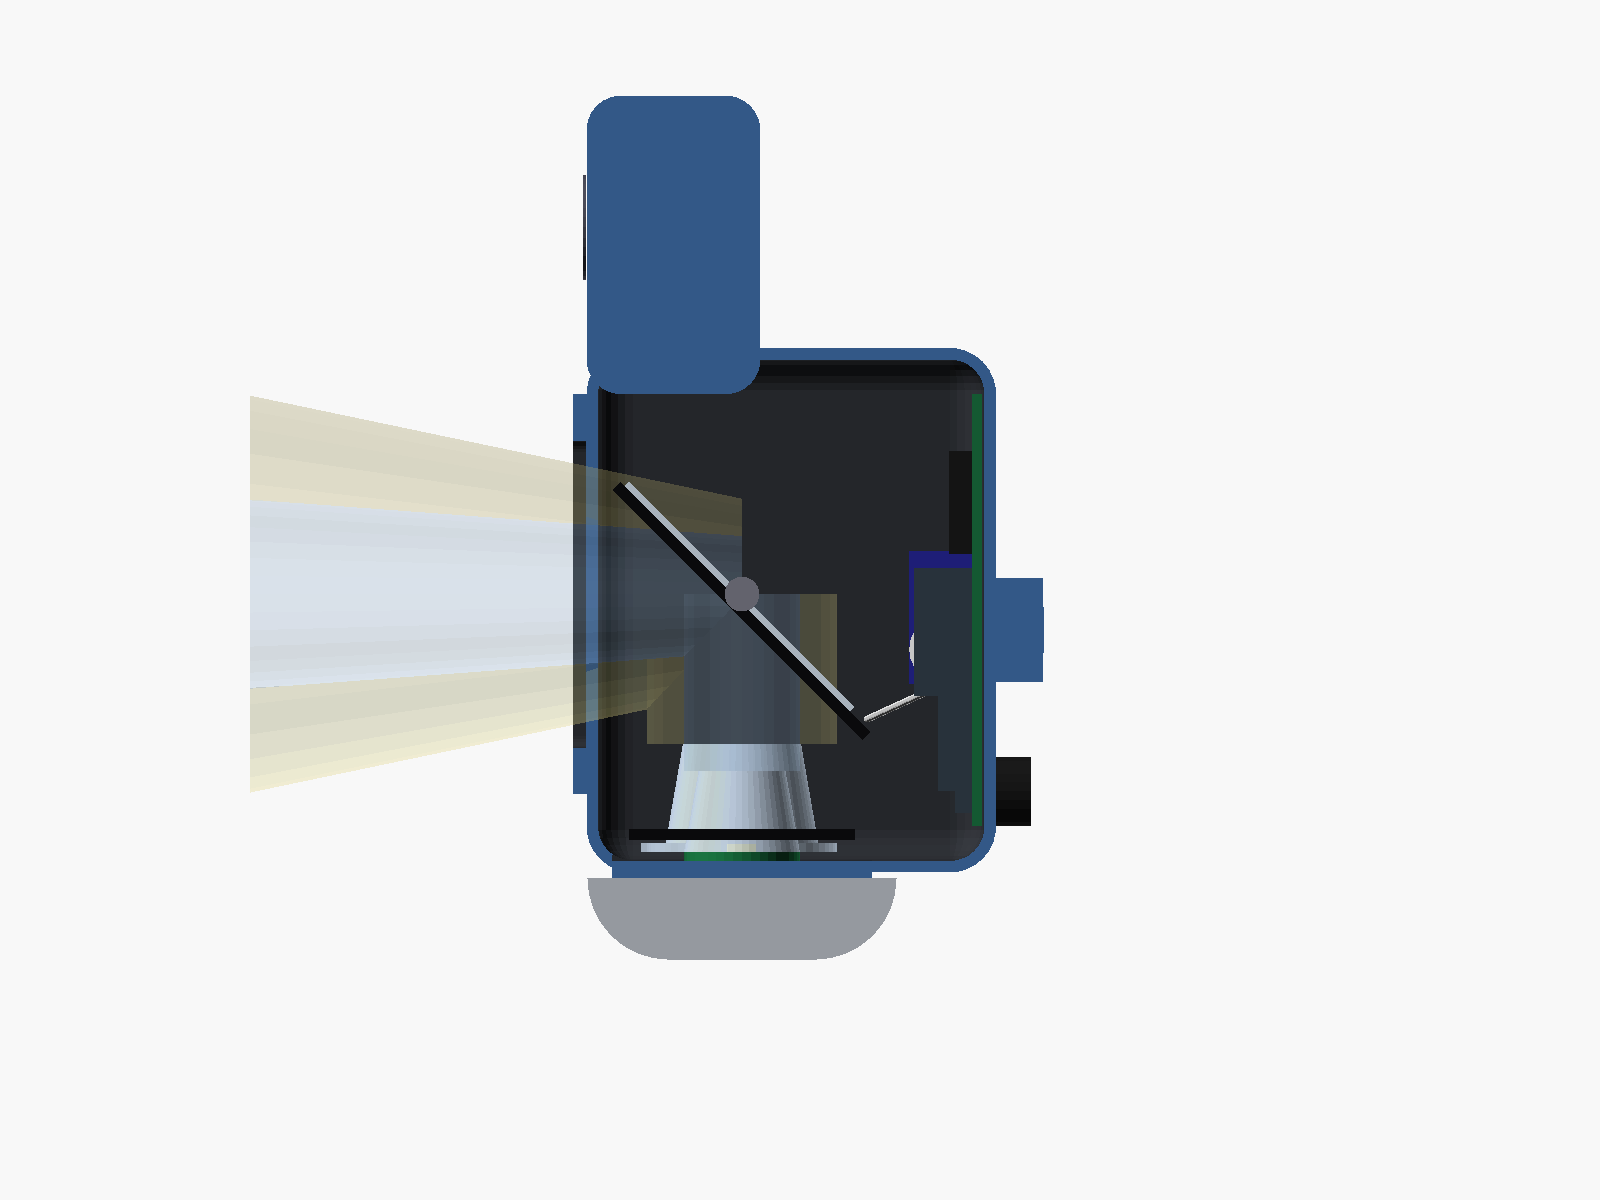
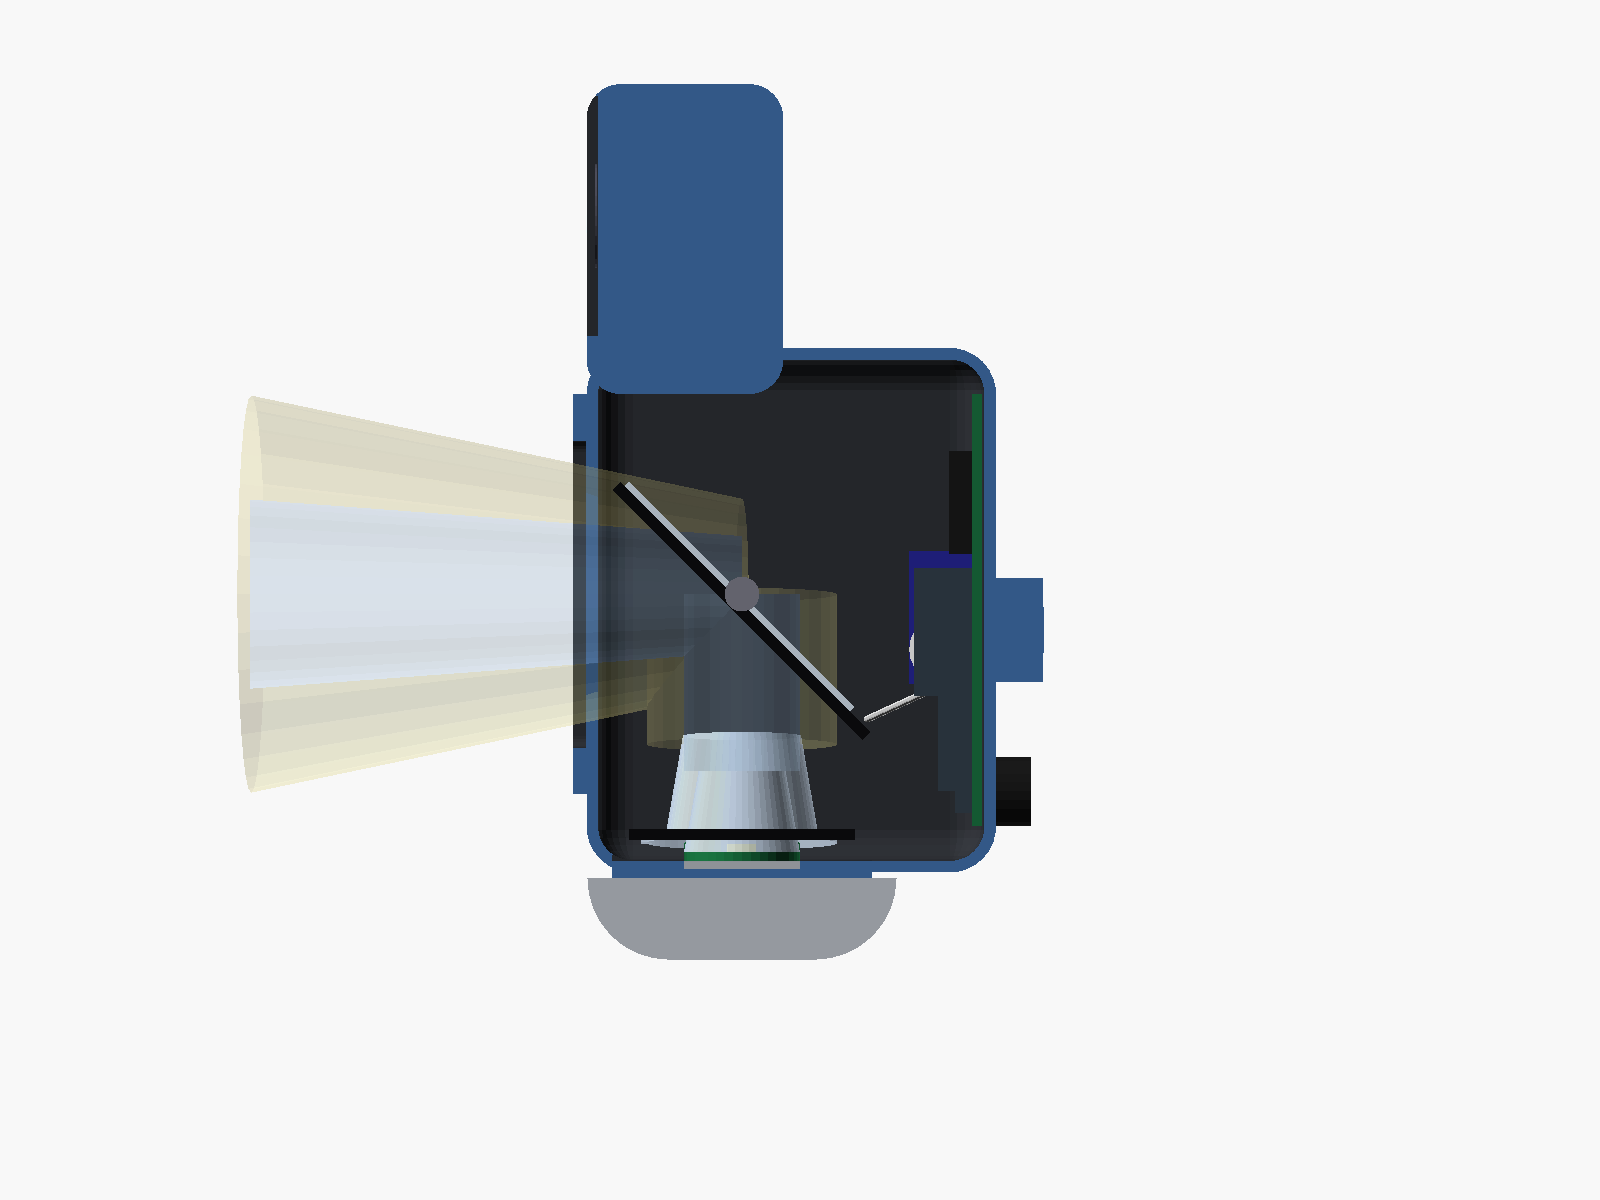
Cornering lights and 4° toe-out for seeing into turns
Owner's decision, 2026-11-21.

- FILIPPA optics lean 4° outward on aluminium wedges: low beam ~22° ->
  ~30° wide, ~15% less peak; cutoff stays horizontal (B-OPT-08)
- Two IMU-switched cornering lights (XP-L HI + Carclo 10003-L25,
  700 mA drivers) aimed 30° out and 10° down, in a rounded top brow
  with the lidar in the middle (firmware-spec §10, invariant 6, U-CRN,
  B-CRN, R-CRN); pins D3 + a back-pad GPIO to confirm
- cad: toe-out, brow and cornering modules, C-PKG-09/10; variants that
  don't fit are reported instead of aborting
- BOM +$33 (core $507); mass ~517 g with lidar (C-MASS-01 fails)

diff --git a/cad/weight.py b/cad/weight.py
@@ -46,10 +46,14 @@ def budget(g):
         "O-rings, window gasket": g["seal_mm"] * 3.14159 * 1.0**2 * CM3 * 1.2 + 2,
         "Mount boss + 1/4\"-20 insert": 10,
         "Gland, vent, button, desiccant": 4 + 2 + 3 + 2,
+        "FILIPPA toe-out wedges (aluminium)": g["n_fil"] * 2,
+        "Top brow (ASA)": g["brow_area_mm2"] * g["wall_mm"] * CM3 * ASA,
+        "2x cornering light (LED, optic, plate, window)": 2 * (4.5 + 3.5 + 3 + 1.5),
+        "2x cornering driver (700 mA buck)": 2 * 2,
     }
     if g["lidar"]:
         parts["TF02-Pro lidar"] = 50
-        parts["Lidar pocket (ASA) + gasket"] = g["lidar_pod_area_mm2"] * g["wall_mm"] * CM3 * ASA + 2
+        parts["Lidar gasket + screws"] = 2
     return parts
 
 

diff --git a/hardware/BOM.md b/hardware/BOM.md
@@ -8,6 +8,7 @@ Prices: approximate USD street prices, Nov 2026. **Check the live pages before o
 - **LED driver:** the Mean Well LDD-1500H is discontinued, so it's replaced by the **LEDdynamics BuckBlock A009-D-V-2100**. It's dimmable and rated 2.1 A. Firmware caps it at about 1.5 A in normal mode and allows 2.1 A in a time-limited boost mode.
 - **Dimming flicker:** BuckBlock PWM is specified at 200 Hz, which would flicker visibly on a moving wheel. Instead, the 2N3904 interface runs at about 20 kHz with a 10 µF cap on DIM, which turns it into smooth analog dimming. Verify this on the bench.
 - **Spot LED:** the SFT-40 is a 5050 package and doesn't fit the 20 mm XP-footprint optic holders, so it's swapped for the **Cree XP-L HI (3535)**.
+- **Cornering lights and toe-out (2026-11-21):** two IMU-switched cornering lights (XP-L HI + Carclo 10003-L25) with their own 700 mA drivers, and 4° aluminium wedges that toe the FILIPPA optics outward.
 - **Low beam (2026-11-21):** the Nichia 519A + Carclo 10003-L25 elliptical flood had no cutoff, so it's replaced by two **LEDiL FILIPPA-STVZO** cutoff optics with XP-L HI LEDs. All four LEDs are now XP-L HI; only the two spot optics use Carclo holders. The mirror, heatsink and window grow to fit the 33 mm optics.
 - **IMU:** the LSM6DSO32 (±32 g) is used, so crash detection doesn't saturate. Its on-chip temperature sensor replaces the internal NTC.
 - **Lidar:** a new optional section H. It shares the I²C bus, so it needs no extra pins.
@@ -36,9 +37,10 @@ Prices: approximate USD street prices, Nov 2026. **Check the live pages before o
 | Bulk caps | 220 µF 35 V (input) + 470 µF 10 V (servo rail), low-ESR electrolytic | 2 | 0.50 | 1.00 | [search](https://www.digikey.com/en/products/result?keywords=220uF+35V+low+ESR+radial) |  |
 | Thermistor | Vishay NTCLE100E3103JB0, 10 k NTC | 1 | 0.55 | 0.55 | [search](https://www.digikey.com/en/products/result?keywords=NTCLE100E3103JB0) | Heatsink only (internal temperature comes from the IMU); fix with paste + Kapton |
 | Resistors | 1/4 W kit (need 120 k, 15 k, 10 k, 1 k ×3, 100 Ω) | 1 | 8.00 | 8.00 | [search](https://www.amazon.com/s?k=1/4W+metal+film+resistor+kit) | Skip if you have a kit |
+| Cornering LED drivers | 700 mA constant-current buck module with PWM input | 2 | 3.00 | 6.00 | [search](https://www.amazon.com/s?k=700mA+constant+current+LED+driver+module+PWM) | One per side; PWM on D3 and a back-pad GPIO |
 | Protoboard | Adafruit Perma-Proto half-size (#1609) | 1 | 4.50 | 4.50 | [link](https://www.adafruit.com/product/1609) | Custom PCB later |
 | Wire | Silicone wire 22 AWG + 26 AWG | 1 | 10.00 | 10.00 | [search](https://www.amazon.com/s?k=silicone+wire+22+awg+26+awg+kit) |  |
-| **Subtotal** | | | | **92.70** | | |
+| **Subtotal** | | | | **98.70** | | |
 
 ## C. Optics & mechanism
 
@@ -48,7 +50,10 @@ Prices: approximate USD street prices, Nov 2026. **Check the live pages before o
 | Low-beam LEDs | Cree XP-L HI (3535) on 20 mm DTP copper, about 5000 K | 2 | 6.50 | 13.00 | [link](https://kaidomain.com/XP-L-HI-10W-3A-1095-Lumens-SMD-3535-LED) | For the FILIPPA optics. Replaces the Nichia 519A, which isn't on LEDiL's compatible list |
 | Spot optics | Carclo 10003 narrow spot, 20 mm (~8–12°) | 2 | 2.75 | 5.50 | [link](https://www.ledsupply.com/led-optics/10003-carclo-lens-20mm-narrow-spot-led-optic) |  |
 | Low-beam optics | LEDiL FILIPPA-STVZO (C18612_FILIPPA-STVZO), Ø 32.9 mm cutoff optic | 2 | 3.52 | 7.04 | [link](https://www.mouser.com/en/ProductDetail/Ledil/C18612_FILIPPA-STVZO?qs=2SLPxufLcgCat%2F0uKWgVhA%3D%3D) | Mouser, Nov 2026: $3.52 each, $2.06 each for 10. LEDiL's own MOQ is 252. Flange mount; orienting rib toward the front of the housing (LEDs face up) |
-| Optic holders | Carclo 10734, 20 mm, XP footprint | 2 | 0.80 | 1.60 | [link](https://www.digikey.com/en/products/detail/carclo-technical-plastics/10734/2641685) | Spot optics only |
+| Cornering LEDs | Cree XP-L HI (3535) on 20 mm DTP copper, about 4000 K | 2 | 6.50 | 13.00 | [link](https://kaidomain.com/XP-L-HI-10W-3A-1095-Lumens-SMD-3535-LED) | Run at ~0.7 A |
+| Cornering optics | Carclo 10003-L25 elliptical, 20 mm (~44×13°) | 2 | 3.25 | 6.50 | [link](https://www.ledsupply.com/led-optics/10003-l25-carclo-lens-20mm-elliptical-spot-led-optic) | Wide axis horizontal; aimed 30° out, 10° down |
+| Toe-out wedges + spreader plates | Aluminium flat bar ~3 × 25 mm, cut to 2 × 4° wedges and 2 × 24×24 mm plates | 1 | 6.00 | 6.00 | [search](https://www.amazon.com/s?k=aluminum+flat+bar+3mm+x+25mm) | Wedges under the FILIPPA boards; plates under the cornering boards. Thermal paste both faces |
+| Optic holders | Carclo 10734, 20 mm, XP footprint | 4 | 0.80 | 3.20 | [link](https://www.digikey.com/en/products/detail/carclo-technical-plastics/10734/2641685) | Spot and cornering optics |
 | Mirror | Front-surface (first-surface) glass mirror, enhanced Al, 1.1 mm, cut to ~114×55 mm, flat | 1 | 18.00 | 18.00 | [link](https://www.edmundoptics.com/f/first-surface-mirrors/12017/) | Edmund: precise, pricier. Budget: https://www.aliexpress.com/w/wholesale-front-surface-mirror-glass.html (glass, not acrylic). Score on the back face to cut. Price was for ~90×35 mm; recheck for the larger size. Flatness matters for a sharp cutoff |
 | Pivot bearings | MR63ZZ (3×6×2.5 mm), pack of 10 | 1 | 8.00 | 8.00 | [search](https://www.amazon.com/s?k=MR63ZZ+bearing) |  |
 | Pivot shaft | 3 mm stainless steel rod, 100 mm | 1 | 6.00 | 6.00 | [search](https://www.amazon.com/s?k=3mm+stainless+steel+rod+100mm) |  |
@@ -56,7 +61,7 @@ Prices: approximate USD street prices, Nov 2026. **Check the live pages before o
 | Servo | EMAX ES08MD II, digital, metal gear, 12–13 g | 1 | 14.00 | 14.00 | [link](https://www.readymaderc.com/products/details/emax-es08mdii-12g-digital-metal-gear-servo) | Also AMain Hobbies, RaceDayQuads |
 | Heatsink (= floor) | Finned aluminium heatsink ~128×45 mm, ~3 mm base, ~14 mm fins, fins running fore-aft | 1 | 9.00 | 9.00 | [search](https://www.amazon.com/s?k=aluminum+heatsink+extrusion+50mm+wide) | Cut from extrusion; LED stars screw to the flat side; drill/tap M3. Fins must run front-to-back |
 | Thermal paste | Arctic MX-4 (or similar) | 1 | 7.00 | 7.00 | [search](https://www.amazon.com/s?k=Arctic+MX-4) | Skip if you have it |
-| **Subtotal** | | | | **109.14** | | |
+| **Subtotal** | | | | **136.24** | | |
 
 ## D. Housing & sealing
 
@@ -134,18 +139,19 @@ Prices: approximate USD street prices, Nov 2026. **Check the live pages before o
 | Electronics tray | ASA, holds the protoboard, BuckBlocks, Pololu |
 | Mount boss | ASA, on the back of the body, holds the 1/4"-20 insert |
 | Remote case | ASA or TPU, 2 buttons + strap slots |
-| Lidar pocket (if section H) | ASA, in the top cover (not the mirror), aims the lidar ~3–5° below the beam axis; or a separate housing on the wheel shell |
+| Top brow | ASA, rounded, across the top front: cornering lights at the ends, lidar pocket in the middle (if section H) |
+| Lidar pocket (if section H) | ASA, in the top brow (not the mirror), aims the lidar ~3–5° below the beam axis; or a separate housing on the wheel shell |
 
 ## Cost summary
 
 | | USD |
 |---|---|
-| Core build, cash outlay (sections A–G, excluding the 2 optional items) | **474** |
+| Core build, cash outlay (sections A–G, excluding the 2 optional items) | **507** |
 | Optional extras (XTC-3D coating, magnetic breakaway) | +35 |
 | Road-slope lidar (section H) | +98 |
 | Subtract if you already own a power bank, filament, resistor kit, wire, paste | −100 |
 | Packs and spools left over after one unit (inserts, screws, O-ring cord, bearings, mounts…) | ≈ 129 |
-| **Material actually used per unit, without lidar or power bank** | **≈ 297** |
+| **Material actually used per unit, without lidar or power bank** | **≈ 330** |
 
 Tools not included: 3D printer, soldering iron with a heat-set insert tip, multimeter, glass cutter, drill and M3 tap.
 
@@ -156,7 +162,8 @@ Tools not included: 3D printer, soldering iron with a heat-set insert tip, multi
 | D0 | 1 | Input voltage sense (120 k / 15 k) |
 | D1 | 2 | Heatsink NTC |
 | D2 | 3 | IMU INT1 (wake-on-motion) |
-| D3 | 4 | Spare |
+| D3 | 4 | Left cornering light driver PWM |
+| back pad | 41 | Right cornering light driver PWM (e.g. MTDI; confirm on Seeed's pinout) |
 | D4 | 5 | I²C SDA (IMU + lidar) |
 | D5 | 6 | I²C SCL |
 | D6 | 43 | Status / button ring LED (via 2N3904) |

diff --git a/docs/test-plan.md b/docs/test-plan.md
@@ -107,6 +107,17 @@ Status is "–" until a test exists or has been run.
 | U-LID-05 | Healthy returns blend as `road_imu + k·(lidar_grade − road_imu)` | FW §8 | – |
 | U-LID-06 | With no lidar fitted, the output is identical to IMU-only | FW §8, CLAUDE.md | – |
 
+### Cornering lights
+
+| ID | What it checks | Spec | Status |
+|---|---|---|---|
+| U-CRN-01 | The lit side is the side the wheel turns toward; lean and yaw rate must agree | FW §10 | – |
+| U-CRN-02 | On above 8° lean or 20°/s yaw rate for 150 ms; off below 5° and 12°/s for 400 ms (hysteresis) | FW §10 | – |
+| U-CRN-03 | Brightness 40% at the threshold rising to 100% at 20°; fade in 0.2 s, out 0.6 s | FW §10 | – |
+| U-CRN-04 | Off when stationary, parked or on a sensor fault | FW §10 | – |
+| U-CRN-05 | After 20 s at full power, a side drops to 50% until it has been off for 20 s | FW §10 | – |
+| U-CRN-06 | Cornering lights never change the main beam's brightness or the mirror command | FW §1.6 | – |
+
 ### Safety invariants
 
 These run long randomised input sequences against the whole control and state logic.
@@ -132,7 +143,9 @@ Each check's message in `cad/headlight.scad` or `cad/weight.py` starts with its 
 | C-PKG-06 | The servo fits the back slot | Servo width ≤ slot depth − 2 mm | Pass (v2), 2026-11-21 |
 | C-PKG-07 | The bottom heatsink fits inside the floor | Heatsink depth ≤ inner depth | Pass (v2), 2026-11-21 |
 | C-PKG-08 | The window and bezel stay on the flat front, clear of the rounded bottom edge | Bezel bottom ≥ edge radius above the floor | Pass (v2), 2026-11-21 |
-| C-MASS-01 | Head mass of the current configuration (2 FILIPPA + 2 spot, lidar on the head), from model geometry and part masses | ≤ 350 g | **Fail: ~463 g** (v2 rounded; ~448 g square-edged, ~556 g in v1), 2026-11-21 |
+| C-PKG-09 | The cornering lights clear the lidar in the top brow | No overlap | Pass (2 FILIPPA + 2 spot); fails with 1 FILIPPA + 1 spot, 2026-11-21 |
+| C-PKG-10 | The cornering lights stay within the end of the body | At most 2 mm past the end | Pass, 2026-11-21 |
+| C-MASS-01 | Head mass of the current configuration (2 FILIPPA + 2 spot, lidar on the head), from model geometry and part masses | ≤ 350 g | **Fail: ~517 g** with cornering lights (v2 rounded; ~463 g before them, ~556 g in v1), 2026-11-21 |
 
 ## Bench tests (`B-`)
 
@@ -156,6 +169,9 @@ Each check's message in `cad/headlight.scad` or `cad/weight.py` starts with its 
 | B-OPT-05 | FILIPPA flange height above the XP-L HI board, set with printed spacers in 0.1 mm steps | Height recorded where the cutoff is sharpest on a wall at 10 m | – |
 | B-OPT-06 | Cutoff orientation with the orienting rib toward the front of the housing (LEDs facing up), through the mirror | Cutoff is at the top of the beam and horizontal within ±0.5° | – |
 | B-OPT-07 | Glare above the cutoff, lux on a wall at 10 m, aimed per calibration step D | ≤ 2 lux above 3.4° over the brightest point; ≥ 10 lux at the brightest point | – |
+| B-OPT-08 | Toed-out low beam (4° wedges): beam width, and cutoff tilt at both ends of the mirror's travel | Width ~30° FWHM; cutoff tilt ≤ 2° | – |
+| B-CRN-01 | Cornering lights aimed 30° out, 10° down: lux on a wall at 10 m above horizontal | ≤ 2 lux above horizontal; ~10 lux at the peak | – |
+| B-CRN-02 | Cornering spreader plate temperature after 20 s at full power, then at 50% | Plate stays below 70 °C | – |
 
 ### LED drivers
 
@@ -208,4 +224,5 @@ Each check's message in `cad/headlight.scad` or `cad/weight.py` starts with its 
 | R-OFF-02 | Parking for 2 and 10 min | Dims, then sleeps; wakes when moved | – |
 | R-THM-01 | Hour-long ride at night | Heatsink and internal temperatures stay below derating thresholds in normal mode | – |
 | R-RUN-01 | Runtime on a 20 Ah bank in normal mode | ≥ 2 h | – |
+| R-CRN-01 | Night ride through left and right turns and roundabouts | Inside of each turn lit; no flicker or false triggers on straights | – |
 | R-LID-01 | Crests, dips, and an obstacle ahead, with the lidar fitted | Beam leads crests and dips; an obstacle never lifts it | – |

diff --git a/cad/README.md b/cad/README.md
@@ -10,7 +10,7 @@ Needs [OpenSCAD](https://openscad.org) (2021.01 or newer) and Python 3 (standard
 cad/render.sh
 ```
 
-It renders the views below to `renders/`, runs the clearance checks (C-PKG-01 to 07) and the mass budget (C-MASS-01, `weight.py`, with lighter configurations for comparison), and writes the results to `renders/checks.txt` and `renders/mass.txt`. The exit status is non-zero if any check fails. Set `OPENSCAD` if the binary isn't on your PATH.
+It renders the views below to `renders/`, runs the clearance checks (C-PKG-01 to 10) and the mass budget (C-MASS-01, `weight.py`, with lighter configurations for comparison), and writes the results to `renders/checks.txt` and `renders/mass.txt`. The exit status is non-zero if any check fails. Set `OPENSCAD` if the binary isn't on your PATH.
 
 To explore, open `headlight.scad` in OpenSCAD and change `view` (`assembly`, `cutaway`, `exploded`, `front`, `under`, `wheel`), `tilt` (−7.5 to 7.5), `n_fil`, `n_spot`, `lidar_on_head` and `show_beams`.
 
@@ -28,4 +28,4 @@ To explore, open `headlight.scad` in OpenSCAD and change `view` (`assembly`, `cu
 
 ## Results (2026-11-21)
 
-Layout v2 (heatsink at the bottom, fins fore-aft, mount on the back): all clearance checks pass. The current configuration (2 FILIPPA + 2 spot, lidar on the head) is about 463 g with the rounded exterior, against the 350 g limit, so C-MASS-01 fails. `renders/mass.txt` compares lighter configurations; none fits once rounded. See design.md §5 "Packaging study".
+Layout v2 (heatsink at the bottom, fins fore-aft, mount on the back): all clearance checks pass. The current configuration (2 FILIPPA + 2 spot, lidar on the head) is about 517 g with the rounded exterior and the cornering lights, against the 350 g limit, so C-MASS-01 fails. `renders/mass.txt` compares lighter configurations; none fits. See design.md §5 "Packaging study".

diff --git a/docs/firmware-spec.md b/docs/firmware-spec.md
@@ -15,6 +15,7 @@
    - remote → keep the current mode
 4. All brightness changes are rate-limited, so there are no visible steps or flicker.
 5. If the MCU dies, the BuckBlock DIM inputs float and the light runs at full current (hardware failsafe).
+6. The cornering lights only add light. They never dim or move the main beam, and any fault turns them off.
 
 ## 2. Control loop (200–400 Hz)
 
@@ -126,3 +127,16 @@ If the remote disconnects, the light keeps its current mode. The button on the h
 
 - Serial log over the XIAO's USB-C: pitch, mirror command, temperatures, input voltage, state.
 - Optional: log to flash at 50 Hz for analysing rides afterwards.
+
+## 10. Cornering lights
+
+Two fixed lights aimed 30° outward and 10° down (design §3). Left on D3, right on a back-pad GPIO, each through a 700 mA driver's PWM input.
+
+- **Inputs:** lean angle (roll about the learned forward axis, from the same gated filter as pitch) and yaw rate (gyro about the learned vertical axis). `now` is passed in.
+- **Side:** the side the wheel turns toward: the sign of the yaw rate, which must agree with the lean direction.
+- **On:** while moving, when |lean| > 8° **or** |yaw rate| > 20°/s for 150 ms.
+- **Off:** when |lean| < 5° **and** |yaw rate| < 12°/s for 400 ms, when stationary or parked, or on any sensor fault.
+- **Brightness:** 40% at the threshold, rising linearly to 100% at 20° of lean.
+- **Fades:** in over 0.2 s, out over 0.6 s.
+- **Thermal cap:** after 20 s continuously at full power on one side, that side falls to 50% until it has been off for 20 s.
+- Only one side is lit at a time. If the inputs flip side, the old side fades out as the new one fades in.

diff --git a/README.md b/README.md
@@ -28,6 +28,7 @@ An EUC pitches nose-down when it accelerates and nose-up when it brakes. A fixed
    │ fuse · reverse-polarity diode · TVS                          │
    │   ├─► BuckBlock #1 ─► 2× XP-L HI   (spot, Carclo 10003)      │
    │   ├─► BuckBlock #2 ─► 2× XP-L HI   (low, FILIPPA cutoff)     │
+   │   ├─► 2× 700 mA ─► cornering lights (IMU-switched, 30° out)  │
    │   └─► 5 V buck ─► servo ─► mirror (4:1 lever)                │
    │                 └─► XIAO ESP32-S3 ◄─I²C─► LSM6DSO32 IMU      │
    │                          ▲   └─I²C─► TF02-Pro lidar (opt.)   │
@@ -50,12 +51,12 @@ Side view of the head (layout v2):
 |---|---|---|
 | Emitted lumens | ~2400 lm | ~3100 lm |
 | Out-the-front lumens (after optics, mirror, window) | ~1800 lm | ~2400 lm |
-| Low beam (cutoff) at 10 m | ~73 lux | ~95 lux |
+| Low beam (cutoff, 4° toe-out) at 10 m | ~62 lux | ~81 lux |
 | Input power | ~21 W | ~30 W |
 | Runtime on a 20 Ah bank (~50 Wh usable at 15 V) | ~2.4 h | ~1.7 h |
-| Head weight (limit: 350 g with lidar) | ~386 g, ~463 g with lidar on the head (packaging study v2): over the limit, see design §10 | |
+| Head weight (limit: 350 g with lidar) | ~451 g, ~517 g with lidar on the head (packaging study v2, with cornering lights): over the limit, see design §10 | |
 | Head size | ~143 × 71 × 107 mm, rounded (+ ~44 mm lidar pocket on top) | |
-| Material cost per unit (limit: $450 with lidar) | ~$297 + power bank (+ ~$98 lidar) | |
+| Material cost per unit (limit: $450 with lidar) | ~$330 + power bank (+ ~$98 lidar) | |
 
 ## Repository layout
 

diff --git a/docs/build-plan.md b/docs/build-plan.md
@@ -52,6 +52,7 @@ Goal: the protoboard powers both channels safely and dims them smoothly.
 Goal: the mirror size and window height are proven before CAD fixes them.
 
 - [ ] FILIPPA focus height and cutoff with XP-L HI (B-OPT-05, B-OPT-06, B-OPT-07)
+- [ ] Toe-out wedges and cornering lights: width, cutoff tilt, glare, heat (B-OPT-08, B-CRN-01, B-CRN-02)
 - [ ] Beam clipping across ±7.5° of mirror (B-OPT-02)
 - [ ] Mirror balance and ringing under vibration (B-MIR-04)
 - [ ] Light output, beam intensity and angles, heatsink temperature rise (B-OPT-03, B-OPT-04, B-THM-01, B-THM-02)
@@ -63,6 +64,7 @@ Goal: the mirror size and window height are proven before CAD fixes them.
 - [ ] Thermal derating and boost limits (U-THM)
 - [ ] Input-voltage handling (U-VIN)
 - [ ] BLE remote, head button (U-REM, B-REM-01, B-REM-02)
+- [ ] Cornering lights (U-CRN)
 - [ ] Safety invariant tests (U-SAFE)
 - [ ] DIY remote firmware (XIAO nRF52840)
 
@@ -76,7 +78,7 @@ Goal: the mirror size and window height are proven before CAD fixes them.
 ## Phase 7: Integration and ride tests
 
 - [ ] Full assembly, calibration on the wheel
-- [ ] Ride tests: aim, hills, auto-off, temperature, runtime (R-AIM, R-OFF, R-THM, R-RUN)
+- [ ] Ride tests: aim, hills, auto-off, temperature, runtime, turns (R-AIM, R-OFF, R-THM, R-RUN, R-CRN)
 - [ ] Filter tuning from logged rides
 - [ ] User guide: mounting, calibration, remote
 

diff --git a/CHANGELOG.md b/CHANGELOG.md
@@ -5,6 +5,7 @@ All notable changes to this project are listed here. The format follows [Keep a 
 ## [Unreleased]
 
 ### Added
+- Cornering lights and toe-out (owner, 2026-11-21): two IMU-switched XP-L HI + Carclo elliptical lights in a rounded top brow, aimed 30° out and 10° down (firmware-spec §10, safety invariant 6, U-CRN, B-CRN, R-CRN); FILIPPA optics toed out 4° on aluminium wedges for a ~30° low beam (B-OPT-08). BOM +$33; mass ~517 g with lidar.
 - Packaging study (new build-plan phase 1, before firmware): OpenSCAD model in `cad/`, renders, clearance checks C-PKG-01 to 06 (pass) and mass budget C-MASS-01 (fails: ~556 g with lidar against 350 g).
 - `CLAUDE.md` with the owner's firm constraints: mirror-only steering, external power only, ≤ $450 and ≤ 350 g with the lidar fitted, lidar optional.
 - `docs/build-plan.md` with phases 0–8.

diff --git a/CLAUDE.md b/CLAUDE.md
@@ -57,6 +57,7 @@ These are the safety invariants from firmware-spec.md §1. Each one has tests in
 - Losing a sensor or the remote falls back to a safe state (lidar → IMU only; IMU → fixed mirror at the calibrated aim, reduced brightness; remote → keep the current mode).
 - All brightness changes are rate-limited.
 - If the MCU dies, the LED drivers run at full current (hardware failsafe).
+- The cornering lights only add light: they never dim or move the main beam, and any fault turns them off.
 
 ## How to work here
 
